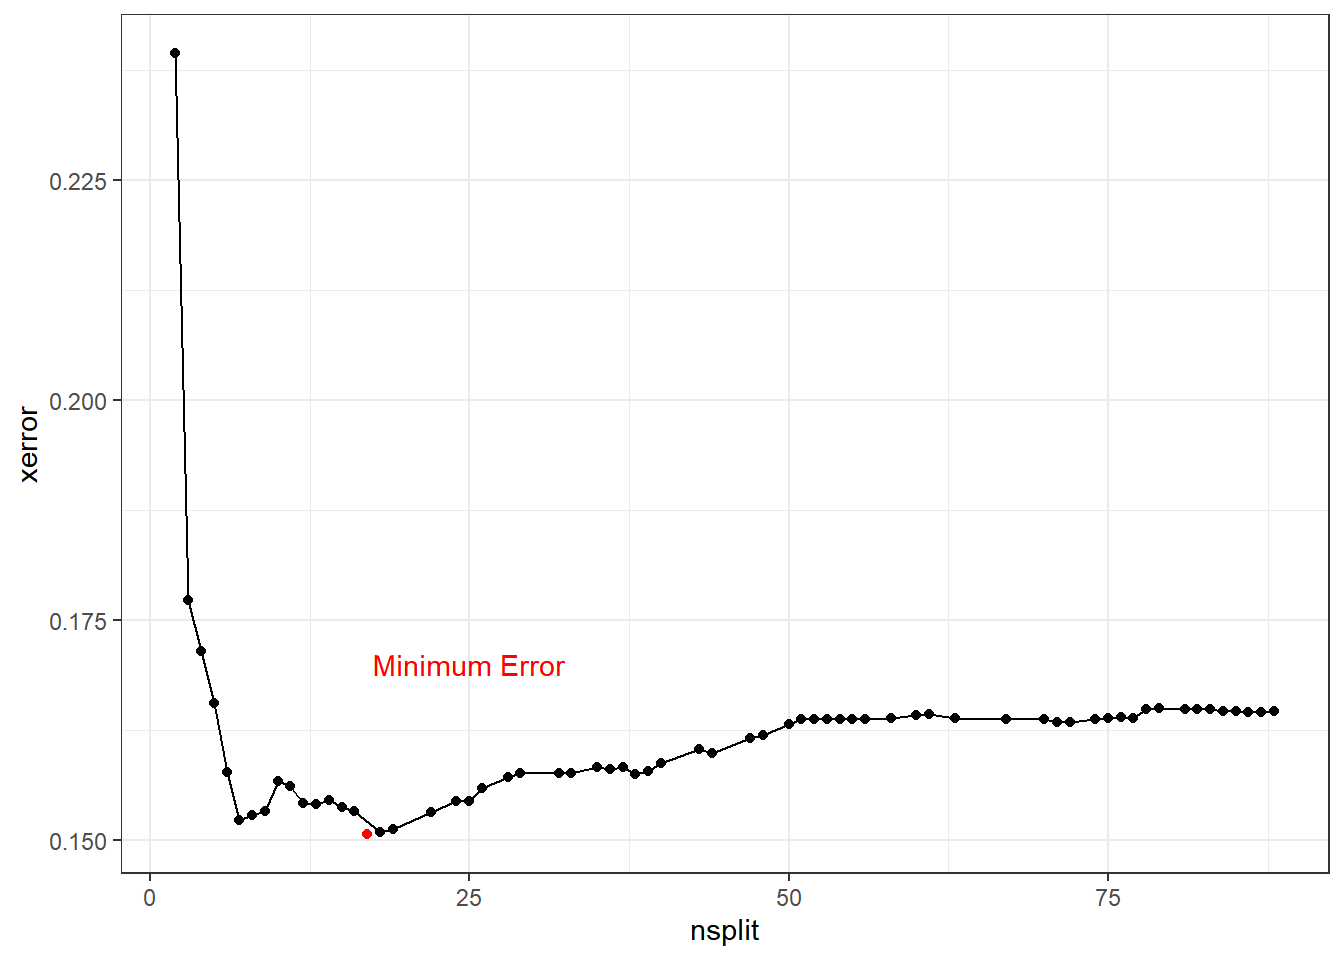
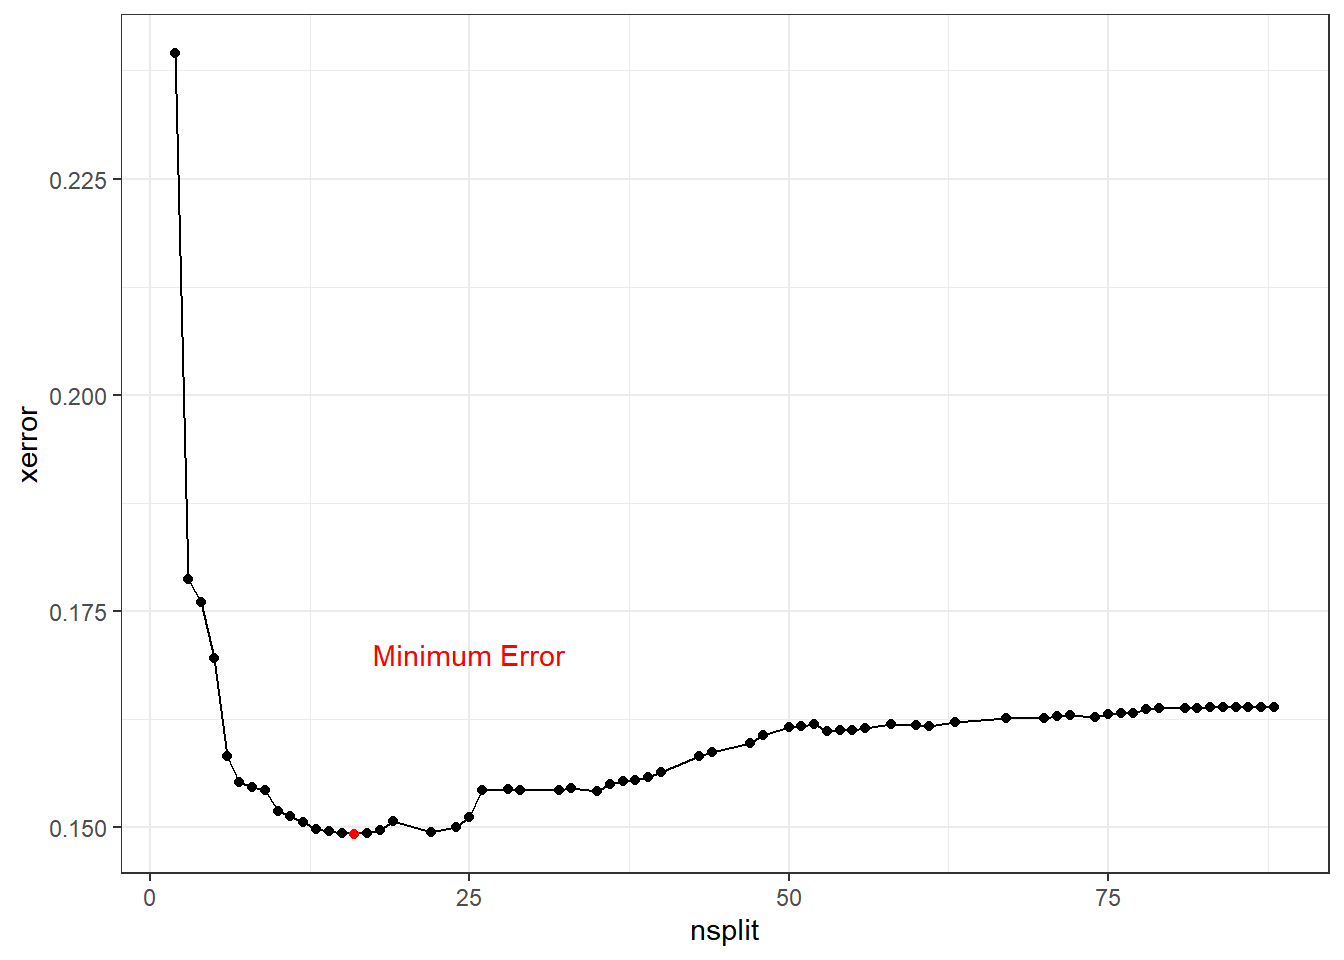
video

diff --git a/docs/introduction-to-modeling.html b/docs/introduction-to-modeling.html
@@ -128,7 +128,7 @@ code span.wa { color: #8f5902; font-weight: bold; font-style: italic; } /* Warni
 
 <li class="divider"></li>
 <li class="chapter" data-level="1" data-path="index.html"><a href="index.html"><i class="fa fa-check"></i><b>1</b> What’s in this book</a><ul>
-<li class="chapter" data-level="1.1" data-path="index.html"><a href="index.html#purchase-full-access"><i class="fa fa-check"></i><b>1.1</b> Purchase full access</a></li>
+<li class="chapter" data-level="1.1" data-path="index.html"><a href="index.html#get-full-access"><i class="fa fa-check"></i><b>1.1</b> Get full access</a></li>
 <li class="chapter" data-level="1.2" data-path="index.html"><a href="index.html#about-the-author"><i class="fa fa-check"></i><b>1.2</b> About the author</a></li>
 <li class="chapter" data-level="1.3" data-path="index.html"><a href="index.html#help-to-make-this-book-even-better"><i class="fa fa-check"></i><b>1.3</b> Help to make this book even better</a></li>
 </ul></li>
@@ -368,10 +368,10 @@ To solve for <span class="math inline">\(\mathbf{\beta}\)</span>, we first need 
 <a class="sourceLine" id="cb188-3" title="3">}</a>
 <a class="sourceLine" id="cb188-4" title="4"></a>
 <a class="sourceLine" id="cb188-5" title="5"><span class="kw">get_rmse</span>(pred, test<span class="op">$</span>charges)</a></code></pre></div>
-<pre><code>## [1] 11985.74</code></pre>
+<pre><code>## [1] 12013.19</code></pre>
 <p>The above number does not tell us if this is a good model or not by itself. We need a comparison. The fastest check is to compare against a prediction of the mean. In other words, all values of the <code>y_hat</code> are the average of <code>charges</code></p>
 <div class="sourceCode" id="cb190"><pre class="sourceCode r"><code class="sourceCode r"><a class="sourceLine" id="cb190-1" title="1"><span class="kw">get_rmse</span>(<span class="kw">mean</span>(test<span class="op">$</span>charges), test<span class="op">$</span>charges)</a></code></pre></div>
-<pre><code>## [1] 12470.48</code></pre>
+<pre><code>## [1] 12742.66</code></pre>
 <p>The RMSE is <strong>higher</strong> (worse) when using just the mean, which is what we expect. <strong>If you ever fit a model and get an error which is worse than the average prediction, something must be wrong.</strong></p>
 <p>The next test is to see if any assumptions have been violated.</p>
 <p>First, is there a pattern in the residuals? If there is, this means that the model is missing key information. For the model below, this is a <strong>yes</strong>, which means that this is a bad model. Because this is just for illustration, I’m going to continue using it, however.</p>
@@ -415,24 +415,24 @@ Figure 8.2: Normal Q-Q
 <tr class="odd">
 <td align="left">(Intercept)</td>
 <td align="right">1744.1</td>
-<td align="right">4393.2</td>
+<td align="right">4083.6</td>
 </tr>
 <tr class="even">
 <td align="left">bmi</td>
 <td align="right">51.4</td>
-<td align="right">124.0</td>
+<td align="right">125.2</td>
 </tr>
 <tr class="odd">
 <td align="left">age</td>
 <td align="right">22.3</td>
-<td align="right">51.7</td>
+<td align="right">54.0</td>
 </tr>
 </tbody>
 </table>
 <p>All interpretations should be based on the model which was trained on the entire data set. Obviously, this only makes a difference if you are interpreting the precise values of the coefficients. If you are just looking at which variables are included, or at the size and sign of the coefficients, then this would not change.</p>
 <div class="sourceCode" id="cb195"><pre class="sourceCode r"><code class="sourceCode r"><a class="sourceLine" id="cb195-1" title="1"><span class="kw">coefficients</span>(model)</a></code></pre></div>
 <pre><code>## (Intercept)         bmi         age 
-##  -6018.2263    294.3822    259.7529</code></pre>
+##  -6196.8728    318.4574    245.7664</code></pre>
 <p>Translating the above into an equation we have</p>
 <p><span class="math display">\[\hat{y_i} = -6,424.80 + 332.97 \space\text{bmi} + 241.93\space \text{age}\]</span></p>
 <p>For example, if a patient has <code>bmi = 27.9</code> and <code>age = 19</code> then predicted value is</p>

diff --git a/docs/tree-based-models.html b/docs/tree-based-models.html
@@ -128,7 +128,7 @@ code span.wa { color: #8f5902; font-weight: bold; font-style: italic; } /* Warni
 
 <li class="divider"></li>
 <li class="chapter" data-level="1" data-path="index.html"><a href="index.html"><i class="fa fa-check"></i><b>1</b> What’s in this book</a><ul>
-<li class="chapter" data-level="1.1" data-path="index.html"><a href="index.html#purchase-full-access"><i class="fa fa-check"></i><b>1.1</b> Purchase full access</a></li>
+<li class="chapter" data-level="1.1" data-path="index.html"><a href="index.html#get-full-access"><i class="fa fa-check"></i><b>1.1</b> Get full access</a></li>
 <li class="chapter" data-level="1.2" data-path="index.html"><a href="index.html#about-the-author"><i class="fa fa-check"></i><b>1.2</b> About the author</a></li>
 <li class="chapter" data-level="1.3" data-path="index.html"><a href="index.html#help-to-make-this-book-even-better"><i class="fa fa-check"></i><b>1.3</b> Help to make this book even better</a></li>
 </ul></li>
@@ -324,11 +324,11 @@ code span.wa { color: #8f5902; font-weight: bold; font-style: italic; } /* Warni
 ##   nsplit      CP xerror
 ##    &lt;dbl&gt;   &lt;dbl&gt;  &lt;dbl&gt;
 ## 1      0 0.620    1.00 
-## 2      1 0.144    0.383
-## 3      2 0.0637   0.239
-## 4      3 0.00967  0.177
-## 5      4 0.00784  0.171
-## 6      5 0.00712  0.166</code></pre>
+## 2      1 0.144    0.381
+## 3      2 0.0637   0.240
+## 4      3 0.00967  0.179
+## 5      4 0.00784  0.176
+## 6      5 0.00712  0.169</code></pre>
 <p>As more splits are added, the cost continues to decrease, reaches a minimum, and then begins to increase.</p>
 <p><img src="06-tree-based-models_files/figure-html/unnamed-chunk-6-1.png" width="672" /></p>
 <p>To optimize performance, choose the number of splits which has the lowest error. Often, though, the goal of using a decision tree is to create a simple model. In this case, we can err or the side of a lower <code>nsplit</code> so that the tree is shorter and more interpretable. All of the questions on so far have only used decision trees for interpretability, and a different model method has been used when predictive power is needed.</p>
@@ -341,12 +341,12 @@ code span.wa { color: #8f5902; font-weight: bold; font-style: italic; } /* Warni
 <pre><code>## # A tibble: 6 x 3
 ##   nsplit       CP xerror
 ##    &lt;dbl&gt;    &lt;dbl&gt;  &lt;dbl&gt;
-## 1     17 0.000913  0.151
-## 2     18 0.000910  0.151
-## 3     19 0.000837  0.151
-## 4      7 0.00196   0.152
-## 5      8 0.00190   0.153
-## 6     22 0.000759  0.153</code></pre>
+## 1     16 0.00105   0.149
+## 2     17 0.000913  0.149
+## 3     15 0.00116   0.149
+## 4     22 0.000759  0.149
+## 5     14 0.00119   0.150
+## 6     18 0.000910  0.150</code></pre>
 <p>The SOA will give you code to find the lowest CP value such as below. This may or may not be useful depending on if they are asking for predictive performance or interpretability.</p>
 <div class="sourceCode" id="cb243"><pre class="sourceCode r"><code class="sourceCode r"><a class="sourceLine" id="cb243-1" title="1">pruned_tree &lt;-<span class="st"> </span><span class="kw">prune</span>(tree,</a>
 <a class="sourceLine" id="cb243-2" title="2">                     <span class="dt">cp =</span> tree<span class="op">$</span>cptable[<span class="kw">which.min</span>(tree<span class="op">$</span>cptable[, <span class="st">&quot;xerror&quot;</span>]), <span class="st">&quot;CP&quot;</span>])</a></code></pre></div>

diff --git a/docs/index.html b/docs/index.html
@@ -128,7 +128,7 @@ code span.wa { color: #8f5902; font-weight: bold; font-style: italic; } /* Warni
 
 <li class="divider"></li>
 <li class="chapter" data-level="1" data-path="index.html"><a href="index.html"><i class="fa fa-check"></i><b>1</b> What’s in this book</a><ul>
-<li class="chapter" data-level="1.1" data-path="index.html"><a href="index.html#purchase-full-access"><i class="fa fa-check"></i><b>1.1</b> Purchase full access</a></li>
+<li class="chapter" data-level="1.1" data-path="index.html"><a href="index.html#get-full-access"><i class="fa fa-check"></i><b>1.1</b> Get full access</a></li>
 <li class="chapter" data-level="1.2" data-path="index.html"><a href="index.html#about-the-author"><i class="fa fa-check"></i><b>1.2</b> About the author</a></li>
 <li class="chapter" data-level="1.3" data-path="index.html"><a href="index.html#help-to-make-this-book-even-better"><i class="fa fa-check"></i><b>1.3</b> Help to make this book even better</a></li>
 </ul></li>
@@ -244,14 +244,17 @@ code span.wa { color: #8f5902; font-weight: bold; font-style: italic; } /* Warni
 <li><code>R code</code> examples</li>
 <li>Tips on taking the exam</li>
 </ul>
-<div id="purchase-full-access" class="section level2">
-<h2><span class="header-section-number">1.1</span> Purchase full access</h2>
-<p>While this book is viewable online, a PDF download, practice exams, and answers to exercises are available by signin up at <a href="https://www.exampa.net/pricing">ExamPA.net</a></p>
+<div id="get-full-access" class="section level2">
+<h2><span class="header-section-number">1.1</span> Get full access</h2>
+<p>While the ebook is available online, sign up at <a href="https://www.exampa.net/pricing">ExamPA.net</a> for</p>
 <ul>
 <li>Practice Exams + Video solutions</li>
 <li>Solutions to prior exams</li>
 <li>An online discussion forum</li>
 </ul>
+<p><strong>Video Example:</strong></p>
+<iframe width="560" height="315" src="https://www.youtube.com/embed/63HB7v3ZanU" frameborder="0" allow="accelerometer; autoplay; encrypted-media; gyroscope; picture-in-picture" allowfullscreen>
+</iframe>
 </div>
 <div id="about-the-author" class="section level2">
 <h2><span class="header-section-number">1.2</span> About the author</h2>

diff --git a/docs/data-manipulation.html b/docs/data-manipulation.html
@@ -128,7 +128,7 @@ code span.wa { color: #8f5902; font-weight: bold; font-style: italic; } /* Warni
 
 <li class="divider"></li>
 <li class="chapter" data-level="1" data-path="index.html"><a href="index.html"><i class="fa fa-check"></i><b>1</b> What’s in this book</a><ul>
-<li class="chapter" data-level="1.1" data-path="index.html"><a href="index.html#purchase-full-access"><i class="fa fa-check"></i><b>1.1</b> Purchase full access</a></li>
+<li class="chapter" data-level="1.1" data-path="index.html"><a href="index.html#get-full-access"><i class="fa fa-check"></i><b>1.1</b> Get full access</a></li>
 <li class="chapter" data-level="1.2" data-path="index.html"><a href="index.html#about-the-author"><i class="fa fa-check"></i><b>1.2</b> About the author</a></li>
 <li class="chapter" data-level="1.3" data-path="index.html"><a href="index.html#help-to-make-this-book-even-better"><i class="fa fa-check"></i><b>1.3</b> Help to make this book even better</a></li>
 </ul></li>

diff --git a/docs/generalized-linear-models-glms.html b/docs/generalized-linear-models-glms.html
@@ -128,7 +128,7 @@ code span.wa { color: #8f5902; font-weight: bold; font-style: italic; } /* Warni
 
 <li class="divider"></li>
 <li class="chapter" data-level="1" data-path="index.html"><a href="index.html"><i class="fa fa-check"></i><b>1</b> What’s in this book</a><ul>
-<li class="chapter" data-level="1.1" data-path="index.html"><a href="index.html#purchase-full-access"><i class="fa fa-check"></i><b>1.1</b> Purchase full access</a></li>
+<li class="chapter" data-level="1.1" data-path="index.html"><a href="index.html#get-full-access"><i class="fa fa-check"></i><b>1.1</b> Get full access</a></li>
 <li class="chapter" data-level="1.2" data-path="index.html"><a href="index.html#about-the-author"><i class="fa fa-check"></i><b>1.2</b> About the author</a></li>
 <li class="chapter" data-level="1.3" data-path="index.html"><a href="index.html#help-to-make-this-book-even-better"><i class="fa fa-check"></i><b>1.3</b> Help to make this book even better</a></li>
 </ul></li>

diff --git a/docs/getting-started.html b/docs/getting-started.html
@@ -128,7 +128,7 @@ code span.wa { color: #8f5902; font-weight: bold; font-style: italic; } /* Warni
 
 <li class="divider"></li>
 <li class="chapter" data-level="1" data-path="index.html"><a href="index.html"><i class="fa fa-check"></i><b>1</b> What’s in this book</a><ul>
-<li class="chapter" data-level="1.1" data-path="index.html"><a href="index.html#purchase-full-access"><i class="fa fa-check"></i><b>1.1</b> Purchase full access</a></li>
+<li class="chapter" data-level="1.1" data-path="index.html"><a href="index.html#get-full-access"><i class="fa fa-check"></i><b>1.1</b> Get full access</a></li>
 <li class="chapter" data-level="1.2" data-path="index.html"><a href="index.html#about-the-author"><i class="fa fa-check"></i><b>1.2</b> About the author</a></li>
 <li class="chapter" data-level="1.3" data-path="index.html"><a href="index.html#help-to-make-this-book-even-better"><i class="fa fa-check"></i><b>1.3</b> Help to make this book even better</a></li>
 </ul></li>

diff --git a/docs/logistic-regression.html b/docs/logistic-regression.html
@@ -128,7 +128,7 @@ code span.wa { color: #8f5902; font-weight: bold; font-style: italic; } /* Warni
 
 <li class="divider"></li>
 <li class="chapter" data-level="1" data-path="index.html"><a href="index.html"><i class="fa fa-check"></i><b>1</b> What’s in this book</a><ul>
-<li class="chapter" data-level="1.1" data-path="index.html"><a href="index.html#purchase-full-access"><i class="fa fa-check"></i><b>1.1</b> Purchase full access</a></li>
+<li class="chapter" data-level="1.1" data-path="index.html"><a href="index.html#get-full-access"><i class="fa fa-check"></i><b>1.1</b> Get full access</a></li>
 <li class="chapter" data-level="1.2" data-path="index.html"><a href="index.html#about-the-author"><i class="fa fa-check"></i><b>1.2</b> About the author</a></li>
 <li class="chapter" data-level="1.3" data-path="index.html"><a href="index.html#help-to-make-this-book-even-better"><i class="fa fa-check"></i><b>1.3</b> Help to make this book even better</a></li>
 </ul></li>

diff --git a/docs/penalized-linear-models.html b/docs/penalized-linear-models.html
@@ -128,7 +128,7 @@ code span.wa { color: #8f5902; font-weight: bold; font-style: italic; } /* Warni
 
 <li class="divider"></li>
 <li class="chapter" data-level="1" data-path="index.html"><a href="index.html"><i class="fa fa-check"></i><b>1</b> What’s in this book</a><ul>
-<li class="chapter" data-level="1.1" data-path="index.html"><a href="index.html#purchase-full-access"><i class="fa fa-check"></i><b>1.1</b> Purchase full access</a></li>
+<li class="chapter" data-level="1.1" data-path="index.html"><a href="index.html#get-full-access"><i class="fa fa-check"></i><b>1.1</b> Get full access</a></li>
 <li class="chapter" data-level="1.2" data-path="index.html"><a href="index.html#about-the-author"><i class="fa fa-check"></i><b>1.2</b> About the author</a></li>
 <li class="chapter" data-level="1.3" data-path="index.html"><a href="index.html#help-to-make-this-book-even-better"><i class="fa fa-check"></i><b>1.3</b> Help to make this book even better</a></li>
 </ul></li>

diff --git a/docs/r-programming.html b/docs/r-programming.html
@@ -128,7 +128,7 @@ code span.wa { color: #8f5902; font-weight: bold; font-style: italic; } /* Warni
 
 <li class="divider"></li>
 <li class="chapter" data-level="1" data-path="index.html"><a href="index.html"><i class="fa fa-check"></i><b>1</b> What’s in this book</a><ul>
-<li class="chapter" data-level="1.1" data-path="index.html"><a href="index.html#purchase-full-access"><i class="fa fa-check"></i><b>1.1</b> Purchase full access</a></li>
+<li class="chapter" data-level="1.1" data-path="index.html"><a href="index.html#get-full-access"><i class="fa fa-check"></i><b>1.1</b> Get full access</a></li>
 <li class="chapter" data-level="1.2" data-path="index.html"><a href="index.html#about-the-author"><i class="fa fa-check"></i><b>1.2</b> About the author</a></li>
 <li class="chapter" data-level="1.3" data-path="index.html"><a href="index.html#help-to-make-this-book-even-better"><i class="fa fa-check"></i><b>1.3</b> Help to make this book even better</a></li>
 </ul></li>

diff --git a/docs/the-exam.html b/docs/the-exam.html
@@ -128,7 +128,7 @@ code span.wa { color: #8f5902; font-weight: bold; font-style: italic; } /* Warni
 
 <li class="divider"></li>
 <li class="chapter" data-level="1" data-path="index.html"><a href="index.html"><i class="fa fa-check"></i><b>1</b> What’s in this book</a><ul>
-<li class="chapter" data-level="1.1" data-path="index.html"><a href="index.html#purchase-full-access"><i class="fa fa-check"></i><b>1.1</b> Purchase full access</a></li>
+<li class="chapter" data-level="1.1" data-path="index.html"><a href="index.html#get-full-access"><i class="fa fa-check"></i><b>1.1</b> Get full access</a></li>
 <li class="chapter" data-level="1.2" data-path="index.html"><a href="index.html#about-the-author"><i class="fa fa-check"></i><b>1.2</b> About the author</a></li>
 <li class="chapter" data-level="1.3" data-path="index.html"><a href="index.html#help-to-make-this-book-even-better"><i class="fa fa-check"></i><b>1.3</b> Help to make this book even better</a></li>
 </ul></li>

diff --git a/docs/visualization.html b/docs/visualization.html
@@ -128,7 +128,7 @@ code span.wa { color: #8f5902; font-weight: bold; font-style: italic; } /* Warni
 
 <li class="divider"></li>
 <li class="chapter" data-level="1" data-path="index.html"><a href="index.html"><i class="fa fa-check"></i><b>1</b> What’s in this book</a><ul>
-<li class="chapter" data-level="1.1" data-path="index.html"><a href="index.html#purchase-full-access"><i class="fa fa-check"></i><b>1.1</b> Purchase full access</a></li>
+<li class="chapter" data-level="1.1" data-path="index.html"><a href="index.html#get-full-access"><i class="fa fa-check"></i><b>1.1</b> Get full access</a></li>
 <li class="chapter" data-level="1.2" data-path="index.html"><a href="index.html#about-the-author"><i class="fa fa-check"></i><b>1.2</b> About the author</a></li>
 <li class="chapter" data-level="1.3" data-path="index.html"><a href="index.html#help-to-make-this-book-even-better"><i class="fa fa-check"></i><b>1.3</b> Help to make this book even better</a></li>
 </ul></li>

diff --git a/docs/05-linear-models.md b/docs/05-linear-models.md
@@ -182,7 +182,7 @@ get_rmse(pred, test$charges)
 ```
 
 ```
-## [1] 11985.74
+## [1] 12013.19
 ```
 
 The above number does not tell us if this is a good model or not by itself.  We need a comparison.  The fastest check is to compare against a prediction of the mean.  In other words, all values of the `y_hat` are the average of `charges`
@@ -193,7 +193,7 @@ get_rmse(mean(test$charges), test$charges)
 ```
 
 ```
-## [1] 12470.48
+## [1] 12742.66
 ```
 
 The RMSE is **higher** (worse) when using just the mean, which is what we expect.  **If you ever fit a model and get an error which is worse than the average prediction, something must be wrong.**
@@ -245,9 +245,9 @@ testing <- lm(data = test,
 
 |term        | full_data_std_error| test_data_std_error|
 |:-----------|-------------------:|-------------------:|
-|(Intercept) |              1744.1|              4393.2|
-|bmi         |                51.4|               124.0|
-|age         |                22.3|                51.7|
+|(Intercept) |              1744.1|              4083.6|
+|bmi         |                51.4|               125.2|
+|age         |                22.3|                54.0|
 
 All interpretations should be based on the model which was trained on the entire data set.  Obviously, this only makes a difference if you are interpreting the precise values of the coefficients.  If you are just looking at which variables are included, or at the size and sign of the coefficients, then this would not change.
 
@@ -258,7 +258,7 @@ coefficients(model)
 
 ```
 ## (Intercept)         bmi         age 
-##  -6018.2263    294.3822    259.7529
+##  -6196.8728    318.4574    245.7664
 ```
 
 Translating the above into an equation we have
